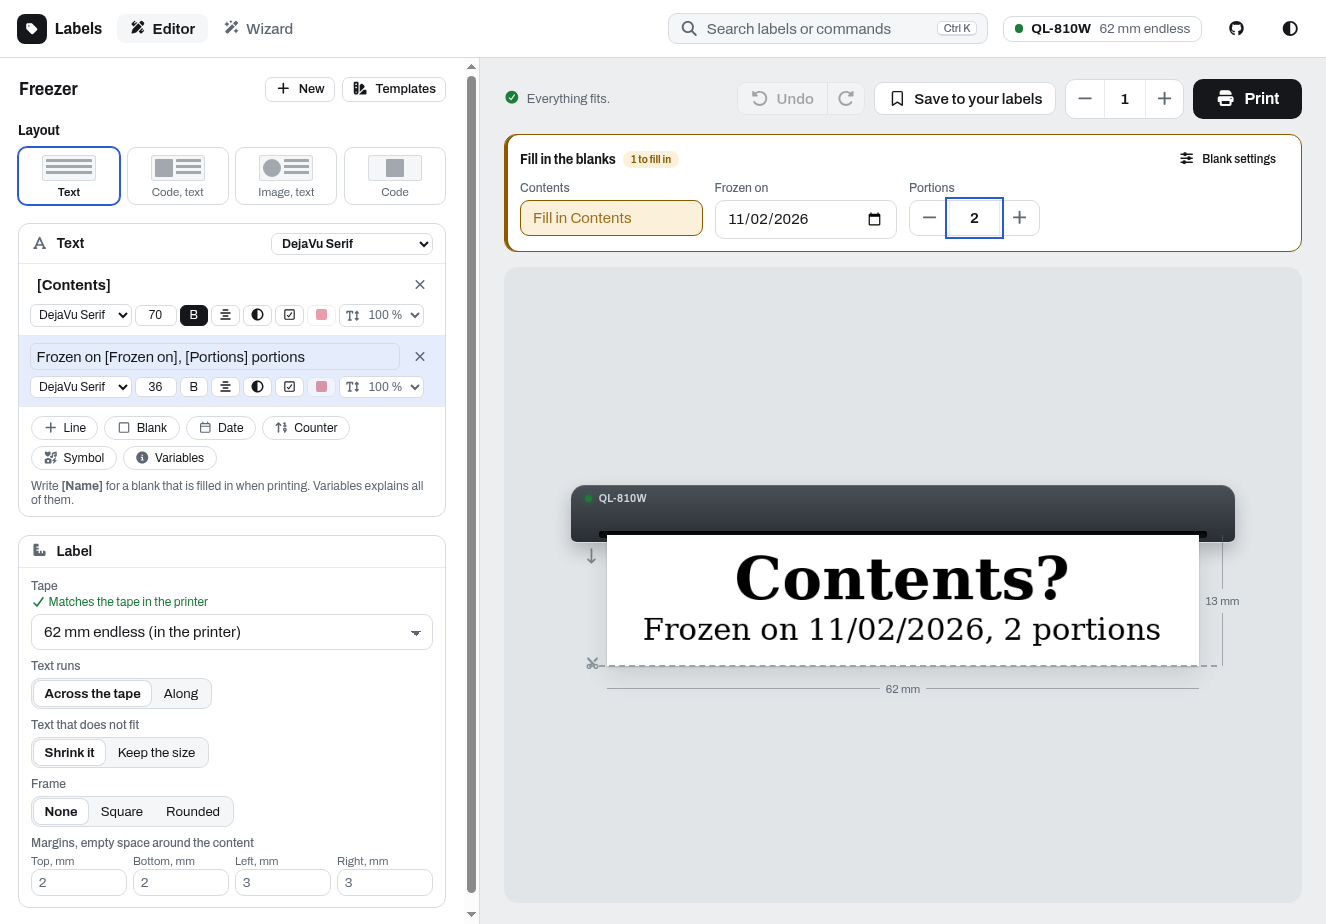
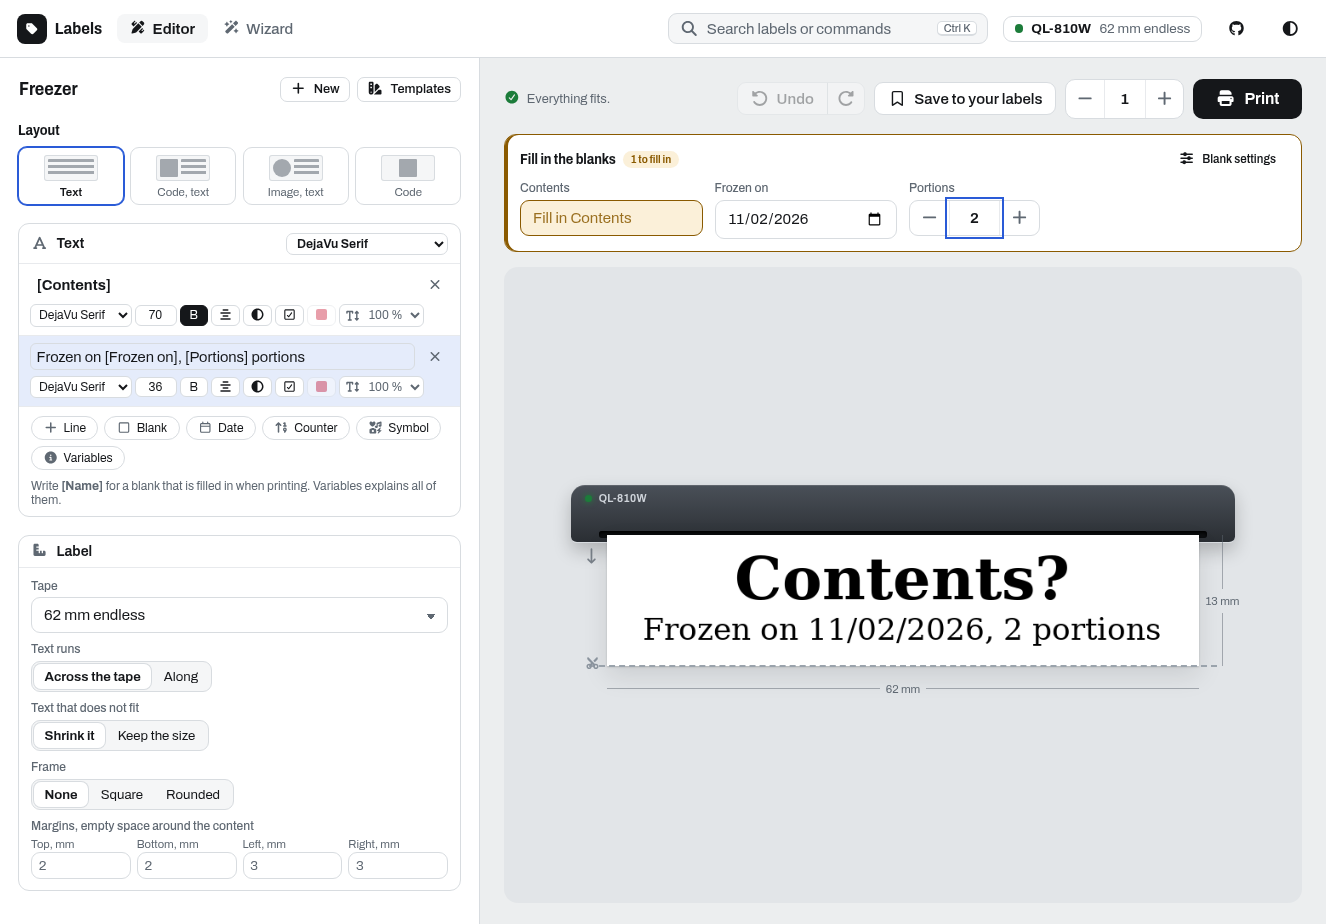
Report printers, tapes and fonts the label designer cannot use
The previous designer covered most of these, the redesigned one did not
yet:

- A chosen printer that is no longer connected is named when the labels
  go to another one.
- A black and red roll in a QL printer, reported without its color,
  takes labels for black and red tape.
- A loaded tape that is not offered is named instead of assuming the
  default. An assumed tape no longer "matches the tape in the printer"
  and is not listed as in the printer.
- A font of a label that is not installed stays chosen and shown as
  such, Bold keeps it.
- A saved label without a size opens with the default size and is not
  shown as made for another tape.
- Print is off while the preview fails, e.g. for a page the PDF lacks.
- New labels also start with the configured image mode and threshold.
- Previews that dropped out of the cache are released after a while,
  also when no other preview follows.

The screenshots are taken again.

diff --git a/app/static/designer/designer.js b/app/static/designer/designer.js
@@ -82,6 +82,8 @@ const isBold = font => /bold/i.test(String(font || '').split(',')[1] || '');
 const wantsBold = l => l.bold !== undefined ? !!l.bold : isBold(l.font);
 const hasBold = family => (FONTS[family] || []).some(st => /bold/i.test(st));
 const familyOf = font => String(font || C.default_font).split(',')[0];
+// A font of a label that is not installed stays chosen until another one is
+const missingFont = family => FONTS[family] ? '' : `<option value="${esc(family)}" selected>${esc(family)}, not installed</option>`;
 
 function L(text, size, bold = false, align = 'center', extra = {}) {
     return Object.assign({
@@ -98,7 +100,7 @@ function baseDesign(size) {
         code_text: '', barcode_type: 'QR', qrcode_size: String(def.qrcode_size), qrcode_correction: 'M',
         margin_top: String(def.margin_top), margin_bottom: String(def.margin_bottom), margin_left: String(def.margin_left), margin_right: String(def.margin_right),
         border_thickness: '0', border_roundness: '0', border_distance_x: '0', border_distance_y: '0', border_color: 'black',
-        image_mode: 'black_and_white', image_bw_threshold: '128', image_fit: '1', image_crop: '0',
+        image_mode: def.image_mode, image_bw_threshold: String(def.image_bw_threshold), image_fit: '1', image_crop: '0',
         image_scaling_factor: '100', image_rotation: '0', shrink_text: '1', print_color: 'black', high_res: '0', pdf_pages: '',
         // Empty: the server chooses the distance from the size of the text
         image_text_gap: ''
@@ -307,9 +309,12 @@ function fingerprint(s) {
 // way onto the page.
 const dropped = new Map();
 function release(url) {
-    dropped.set(url, Date.now());
+    if (url) dropped.set(url, Date.now());
     const shown = new Set($$('img').map(i => i.src));
     for (const [u, t] of dropped) if (Date.now() - t > 10000 && !shown.has(u)) { URL.revokeObjectURL(u); dropped.delete(u); }
+    // Those still waiting are looked at again, also when nothing else drops out
+    clearTimeout(release.timer);
+    if (dropped.size) release.timer = setTimeout(release, 11000);
 }
 
 function preview(design, values, stale) {
@@ -469,7 +474,7 @@ function setSize(d, id) {
 function fitsTape(sizeId) {
     if (sizeId === S.tape) return true;
     const a = SIZES[sizeId], b = SIZES[S.tape];
-    return !!(a && b && a.form === b.form && a.tape[0] === b.tape[0] && a.tape[1] === b.tape[1] && !a.red);
+    return !!(a && b && a.form === b.form && a.tape[0] === b.tape[0] && a.tape[1] === b.tape[1] && (!a.red || S.tapeRedUnknown));
 }
 
 // --- Printer status ----------------------------------------------------------
@@ -480,7 +485,14 @@ async function refreshPrinters() {
         const data = await r.json();
         S.printers = Array.isArray(data.printers) ? data.printers : [data];
         const chosen = load('designer_printer', null);
-        S.printer = S.printers.find(p => p.path === chosen) || S.printers.find(p => p.path === data.selected) || S.printers[0] || null;
+        const kept = S.printers.find(p => p.path === chosen);
+        S.printer = kept || S.printers.find(p => p.path === data.selected) || S.printers[0] || null;
+        // The chosen one comes back by itself when it is there again
+        if (chosen && !kept && S.printer && S.printerGone !== chosen) {
+            S.printerGone = chosen;
+            toast(`The printer ${chosen.replace('file://', '')} is not connected, labels print on the ${S.printer.model} (${S.printer.path.replace('file://', '')})`);
+        }
+        if (kept) S.printerGone = null;
     } catch (e) {
         // A single failed poll keeps what is known, the next one corrects it
         if (!S.printers.length) S.printer = null;
@@ -509,10 +521,15 @@ function detectTape() {
     }
     S.tapeManual = false;
     let found = null;
+    S.tapeUnknown = '';
+    S.tapeRedUnknown = false;
     if (p && p.media_width) {
         // The width and length of DK and TZe tape can be the same
         const red = /red/i.test(p.text_color || '') || /red/i.test(p.media_type || '');
         found = C.label_sizes.find(s => printerTakes(s) && s.tape[0] === p.media_width && s.tape[1] === (p.media_length || 0) && !!s.red === red);
+        // QL printers do not tell whether a roll is black and red
+        S.tapeRedUnknown = !!found && !red && !p.text_color;
+        if (!found) S.tapeUnknown = p.media_length ? `${p.media_width} x ${p.media_length} mm` : `${p.media_width} mm`;
     }
     S.tape = found ? found.id : C.default_label_size;
     S.tapeAssumed = !found;
@@ -666,7 +683,7 @@ async function loadSaved() {
     try {
         const r = await fetch(API + '/repository/list');
         const data = await r.json();
-        S.saved = (data.files || []).map(f => ({ name: f.name, title: f.title || f.name.replace(/\.json$/i, '').replace(/[-_]/g, ' '), size: f.label_size_id, mtime: f.mtime }));
+        S.saved = (data.files || []).map(f => ({ name: f.name, title: f.title || f.name.replace(/\.json$/i, '').replace(/[-_]/g, ' '), size: f.label_size_id || C.default_label_size, mtime: f.mtime }));
     } catch (e) { S.saved = []; }
     updateCounts();
 }
@@ -1531,7 +1548,7 @@ function renderEditor() {
                 </div>${qr ? '' : '<span class="muted small">Size and error correction exist for QR codes only.</span>'}`)(d.barcode_type === 'QR', d.barcode_type === 'QR' && d.image_fit !== '1')}
                 ${lay === 'codetext' ? gapField(d) : ''}</div></div>` : ''}
             ${lay === 'image' ? imageBlock(d) : ''}
-            ${hasText ? `<div class="block"><div class="block-h"><i class="fa-solid fa-font"></i>Text<select id="edFamily" aria-label="Font of all lines" title="Font of all lines">${fam ? '' : '<option value="" selected>Several fonts</option>'}${families.map(f => `<option${f === fam ? ' selected' : ''}>${esc(f)}</option>`).join('')}</select></div>
+            ${hasText ? `<div class="block"><div class="block-h"><i class="fa-solid fa-font"></i>Text<select id="edFamily" aria-label="Font of all lines" title="Font of all lines">${fam ? missingFont(fam) : '<option value="" selected>Several fonts</option>'}${families.map(f => `<option${f === fam ? ' selected' : ''}>${esc(f)}</option>`).join('')}</select></div>
                 <div id="edLines">${d.text.map((l, i) => lineRow(l, i, mainFamily(d), families, redTape(d))).join('')}</div>
                 <div class="addl">
                     <button class="pill" type="button" id="edAdd"><i class="fa-solid fa-plus"></i>Line</button>
@@ -1545,7 +1562,7 @@ function renderEditor() {
                 <div class="info-box" id="tplInfo" style="margin:0 .8rem .7rem"${S.tplInfo ? '' : ' hidden'}>${varsHelpHTML()}</div></div>` : ''}
             <div class="block"><div class="block-h"><i class="fa-solid fa-ruler-combined"></i>Label</div>
                 <div class="block-b">
-                    <div><label class="label-s" for="edSize">Tape</label>${tapeNote(d)}<select class="field" id="edSize">${sizeOptions(d.label_size, s => `${esc(sizeName(s.id))}${s.id === S.tape ? ' (in the printer)' : ''}`)}</select></div>
+                    <div><label class="label-s" for="edSize">Tape</label>${tapeNote(d)}<select class="field" id="edSize">${sizeOptions(d.label_size, s => `${esc(sizeName(s.id))}${s.id === S.tape && !S.tapeAssumed ? ' (in the printer)' : ''}`)}</select></div>
                     <div><span class="label-s">${hasText ? 'Text' : 'Code'} runs</span><div class="seg"><button type="button" data-along="0" class="${runsAlong(d) ? '' : 'on'}">Across the tape</button><button type="button" data-along="1" class="${runsAlong(d) ? 'on' : ''}">Along</button></div></div>
                     <div${hasText ? '' : ' title="Only with text"'}><span class="label-s${hasText ? '' : ' off'}">Text that does not fit</span><div class="seg">${[['1', 'Shrink it'], ['0', 'Keep the size']].map(([v, n]) => `<button type="button" data-shrink="${v}" class="${(d.shrink_text === '1') === (v === '1') ? 'on' : ''}"${hasText ? '' : ' disabled'}>${n}</button>`).join('')}</div></div>
                     <div class="group">
@@ -1595,9 +1612,13 @@ function sizeOptions(chosen, name) {
 }
 
 function tapeNote(d) {
-    if (d.label_size === S.tape) return '<span class="tape-note ok"><i class="fa-solid fa-check"></i> Matches the tape in the printer</span>';
+    const model = esc(S.printer ? S.printer.model : 'printer');
+    if (S.tapeUnknown) return `<span class="tape-note warn">The ${model} reports ${esc(S.tapeUnknown)} tape, which is not offered here.</span>`;
+    // An assumed tape matches nothing in the printer
+    if (d.label_size === S.tape) return S.tapeAssumed ? '' : '<span class="tape-note ok"><i class="fa-solid fa-check"></i> Matches the tape in the printer</span>';
     if (fitsTape(d.label_size)) return '';
-    return `<span class="tape-note warn">The ${esc(S.printer ? S.printer.model : 'printer')} has ${esc(sizeName(S.tape))} loaded. <button type="button" class="link" id="edUseTape">Switch to it</button></span>`;
+    const have = S.tapeAssumed ? `does not report its tape, ${esc(sizeName(S.tape))} is assumed` : `has ${esc(sizeName(S.tape))} loaded`;
+    return `<span class="tape-note warn">The ${model} ${have}. <button type="button" class="link" id="edUseTape">Switch to it</button></span>`;
 }
 
 function imageBlock(d) {
@@ -1698,7 +1719,7 @@ function lineRow(l, i, main, families, red) {
         <span class="txw">${l.checkbox ? '<i class="fa-regular fa-square" title="To-do box"></i>' : ''}<input class="tx" value="${esc(toDisplay(l.text))}" placeholder="${i === 0 ? 'Type the label text' : 'Line ' + (i + 1)}" aria-label="Line ${i + 1}">
             <button class="mini quiet" type="button" data-act="del" title="Remove the line"><i class="fa-solid fa-xmark"></i></button></span>
         <div class="st">
-            <select class="mini lf${fam !== main ? ' on' : ''}" title="Font of line ${i + 1}" aria-label="Font of line ${i + 1}">${families.map(f => `<option${f === fam ? ' selected' : ''}>${esc(f)}</option>`).join('')}</select>
+            <select class="mini lf${fam !== main ? ' on' : ''}" title="Font of line ${i + 1}" aria-label="Font of line ${i + 1}">${missingFont(fam)}${families.map(f => `<option${f === fam ? ' selected' : ''}>${esc(f)}</option>`).join('')}</select>
             <input class="mini" type="number" min="1" value="${esc(l.size)}" title="Size" aria-label="Size of line ${i + 1}">
             <button class="mini${wantsBold(l) ? ' on' : ''}${noBold ? ' nobold' : ''}" type="button" data-act="bold" title="${noBold ? esc(fam) + ' has no bold style. The line prints regular and becomes bold again with a font that has one.' : 'Bold'}">B</button>
             <button class="mini" type="button" data-act="align" title="Alignment: ${esc(l.align || 'center')}"><i class="fa-solid fa-${al}"></i></button>
@@ -1815,6 +1836,8 @@ const drawEditor = debounce(() => {
         if (gap && p && hasTextLines(E.design)) gap.placeholder = p.gap ? `Automatic, ${dotsToMm(p.gap, dpiOf(E.design.label_size, p.highRes))}` : 'Automatic';
         if (empty) { const n = $('#edFits'); n.className = 'fits'; n.innerHTML = ''; }
         else fitsNote($('#edFits'), w, err, E.design, () => renderEditor());
+        // What the server cannot draw it cannot print either
+        $('#edPrint').disabled = empty || !!err;
     }, empty);
 }, 250);
 const redrawEditor = busyThen(() => $('#edStage'), drawEditor);
@@ -1882,7 +1905,7 @@ function bindEditor() {
             const act = b.dataset.act;
             if (act === 'todo') l.checkbox = !l.checkbox;
             if (act === 'red') l.color = l.color === 'red' ? 'black' : 'red';
-            if (act === 'bold') { l.bold = !wantsBold(l); l.font = fontOf(familyOf(l.font), l.bold); }
+            if (act === 'bold') { l.bold = !wantsBold(l); if (FONTS[familyOf(l.font)]) l.font = fontOf(familyOf(l.font), l.bold); }
             if (act === 'align') l.align = { left: 'center', center: 'right', right: 'left' }[l.align] || 'left';
             if (act === 'invert') l.inverted = !l.inverted;
             if (act === 'del') d.text.splice(i, 1);
@@ -2113,7 +2136,8 @@ function settingsCard() {
     const p = S.printer;
     const noHigh = p && C.models_without_600_dpi.includes(p.model);
     const q = S.settings.quality, c = S.settings.cut;
-    const note = S.tapeManual ? 'Set by hand.' : S.tapeAssumed ? 'The printer does not report its tape, the default is assumed.' : 'Read from the printer.';
+    const note = S.tapeManual ? 'Set by hand.' : S.tapeUnknown ? `The printer reports ${S.tapeUnknown} tape, which is not offered here. The default is assumed.`
+        : S.tapeAssumed ? 'The printer does not report its tape, the default is assumed.' : 'Read from the printer.';
     return `<div class="settings">
         <div><label class="label-s" for="setTape">Tape in the printer</label>
             <select class="field" id="setTape"><option value="">Automatic${S.tapeManual ? '' : ': ' + esc(sizeName(S.tape))}</option>

diff --git a/tests/browser/test_designer.py b/tests/browser/test_designer.py
@@ -182,6 +182,12 @@ def test_label_with_a_font_that_is_not_installed(designer, app):
         assert 'The font Not Installed (Regular) is not installed' in fits_note(designer)
         assert designer.get_attribute('#edStage .paper img', 'src').startswith('blob:')
         assert designer.evaluate('() => S.edit.design.text[0].font') == 'Not Installed,Regular'
+        assert designer.input_value('[data-row="0"] select.lf') == 'Not Installed'
+        assert designer.input_value('#edFamily') == 'Not Installed'
+        # Bold is kept as a wish, the font stays
+        designer.click('[data-row="0"] [data-act="bold"]')
+        wait_for_preview(designer)
+        assert designer.evaluate('() => S.edit.design.text[0].font') == 'Not Installed,Regular'
         designer.select_option('[data-row="0"] select.lf', designer.evaluate('() => DEFAULT_FAMILY'))
         wait_for_preview(designer)
         assert 'is not installed' not in fits_note(designer)
@@ -344,12 +350,14 @@ def test_settings_that_do_not_apply_are_disabled(designer):
     designer.click('[data-lay="image"]')
     designer.set_input_files('#edFile', files=[{'name': 'black.png', 'mimeType': 'image/png', 'buffer': png()}])
     wait_for_preview(designer)
-    assert designer.is_enabled('#edThr')
+    # The configured mode, grayscale, has no threshold
+    assert designer.evaluate('() => S.edit.design.image_mode') == 'grayscale'
+    assert designer.is_disabled('#edThr')
     # Red needs black and red tape
     assert designer.is_disabled('[data-imode="red_and_black"]')
-    designer.click('[data-imode="grayscale"]')
+    designer.click('[data-imode="black_and_white"]')
     wait_for_preview(designer)
-    assert designer.is_disabled('#edThr')
+    assert designer.is_enabled('#edThr')
 
 
 def test_code_alone_has_no_text_settings(designer):
@@ -524,6 +532,11 @@ def test_pages_of_a_pdf_can_be_chosen(designer):
     designer.fill('#edPages', '7')
     wait_for_preview(designer)
     assert 'The PDF has 3 pages, there is no page 7' in designer.inner_text('#edStage')
+    # It could not be printed either
+    assert designer.is_disabled('#edPrint')
+    designer.fill('#edPages', '1')
+    wait_for_preview(designer)
+    assert designer.is_enabled('#edPrint')
 
 
 def test_automatic_orientation_is_explained(designer):
@@ -806,7 +819,8 @@ def test_title_ending_in_json_keeps_the_other_label(designer):
 
 
 def test_new_labels_start_with_the_configured_defaults(browser, server, app, monkeypatch):
-    for key, value in (('LABEL_DEFAULT_MARGIN_LEFT', 0), ('LABEL_DEFAULT_FONT_SIZE', 55), ('LABEL_DEFAULT_QR_SIZE', 6)):
+    for key, value in (('LABEL_DEFAULT_MARGIN_LEFT', 0), ('LABEL_DEFAULT_FONT_SIZE', 55), ('LABEL_DEFAULT_QR_SIZE', 6),
+                       ('IMAGE_DEFAULT_MODE', 'black_and_white'), ('IMAGE_DEFAULT_BW_THRESHOLD', 90)):
         monkeypatch.setitem(app.config, key, value)
     context = browser.new_context(locale='en-US')
     page = context.new_page()
@@ -814,6 +828,7 @@ def test_new_labels_start_with_the_configured_defaults(browser, server, app, mon
     wait_for_preview(page)
     design = page.evaluate('() => S.edit.design')
     assert (design['margin_left'], design['text'][0]['size'], design['qrcode_size']) == ('0', '55', '6')
+    assert (design['image_mode'], design['image_bw_threshold']) == ('black_and_white', '90')
     context.close()
 
 
@@ -895,3 +910,60 @@ def test_number_blanks_are_asked_for(designer):
     designer.wait_for_function("() => document.querySelectorAll('#fzLooks .tile').length === 6")
     designer.click('#fzLooks [data-plook="0"]')
     designer.wait_for_selector('#libFields input[data-blank="Number"]:focus', timeout=5000)
+
+
+def test_printer_that_is_not_connected_is_reported(designer):
+    # The chosen printer was unplugged: the labels print on another one, not
+    # without a word
+    designer.evaluate("() => localStorage.setItem('designer_printer', JSON.stringify('file:///dev/usb/lp7'))")
+    designer.reload()
+    designer.wait_for_selector('#toast:has-text("/dev/usb/lp7 is not connected, labels print on the QL-800")')
+
+
+def test_black_and_red_roll_is_not_a_mismatch(designer):
+    # A QL-800 reports a black and red roll as 62 mm endless, without a color
+    fake_printer(designer, media_width=62, media_length=0, media_type='Continuous length tape')
+    designer.select_option('#edSize', '62red')
+    wait_for_preview(designer)
+    assert designer.locator('.tape-note.warn').count() == 0
+    assert designer.evaluate("() => fitsTape('62red')")
+
+
+def test_loaded_label_that_is_not_offered(designer):
+    # The simulator reports no tape, the assumed one matches nothing
+    assert designer.locator('.tape-note').count() == 0
+    assert not designer.evaluate("() => [...document.querySelectorAll('#edSize option')].some(o => o.textContent.includes('in the printer'))")
+    fake_printer(designer, media_width=40, media_length=0)
+    assert designer.inner_text('.tape-note') == 'The QL-800 reports 40 mm tape, which is not offered here.'
+    designer.click('#printerChip')
+    assert 'The printer reports 40 mm tape, which is not offered here.' in designer.inner_text('.pp')
+
+
+def test_saved_label_without_a_size_fits(designer, app):
+    # Like an older label or one saved through the API: it opens with the
+    # default size, so it is not shown as made for another tape
+    repo = app.config['LABEL_REPOSITORY_DIR']
+    with open(os.path.join(repo, 'QR-Example.json'), encoding='utf-8') as f:
+        label = json.load(f)
+    label.pop('label_size', None)
+    path = os.path.join(repo, 'No-Size.json')
+    with open(path, 'w', encoding='utf-8') as f:
+        json.dump(label, f)
+    try:
+        designer.reload()
+        designer.click('[data-tab="wizard"]')
+        designer.wait_for_selector('#libGrid .thumb:has(.t:text-is("No Size"))')
+        assert 'Needs' not in designer.inner_text('#libGrid .thumb:has(.t:text-is("No Size"))')
+    finally:
+        os.remove(path)
+
+
+def test_dropped_preview_is_released_without_another_one(designer):
+    # Released once no image shows it, also when no other preview follows
+    released = designer.evaluate("""async () => {
+        const url = URL.createObjectURL(new Blob(['label']));
+        release(url);
+        await new Promise(done => setTimeout(done, 11500));
+        try { await fetch(url); return false; } catch (e) { return true; }
+    }""")
+    assert released

diff --git a/tests/test_labeldesigner_api.py b/tests/test_labeldesigner_api.py
@@ -1923,10 +1923,12 @@ def test_default_font_is_selected(tmp_path):
 
 def test_label_designer_gets_the_configured_defaults(tmp_path):
     client = make_client(tmp_path)
-    client.application.config.update({'LABEL_DEFAULT_MARGIN_LEFT': 0, 'LABEL_DEFAULT_FONT_SIZE': 55, 'LABEL_DEFAULT_ORIENTATION': 'rotated'})
+    client.application.config.update({'LABEL_DEFAULT_MARGIN_LEFT': 0, 'LABEL_DEFAULT_FONT_SIZE': 55, 'LABEL_DEFAULT_ORIENTATION': 'rotated',
+                                      'IMAGE_DEFAULT_MODE': 'black_and_white'})
     html = client.get('/labeldesigner/').get_data(as_text=True)
     defaults = json.loads(re.search(r'const DESIGNER_CONFIG = (.*);</script>', html).group(1))['defaults']
     assert (defaults['margin_left'], defaults['font_size'], defaults['orientation']) == (0, 55, 'rotated')
+    assert defaults['image_mode'] == 'black_and_white'
 
 
 def test_text_line_without_font_uses_the_default_font(tmp_path):

diff --git a/app/labeldesigner/routes.py b/app/labeldesigner/routes.py
@@ -225,6 +225,8 @@ def index():
                 'margin_bottom': current_app.config['LABEL_DEFAULT_MARGIN_BOTTOM'],
                 'margin_left': current_app.config['LABEL_DEFAULT_MARGIN_LEFT'],
                 'margin_right': current_app.config['LABEL_DEFAULT_MARGIN_RIGHT'],
+                'image_mode': current_app.config['IMAGE_DEFAULT_MODE'],
+                'image_bw_threshold': current_app.config['IMAGE_DEFAULT_BW_THRESHOLD'],
             },
             'models_without_600_dpi': sorted(MODELS_WITHOUT_600_DPI),
             'preview_parallel': max(1, min(16, cpus - 1)),
